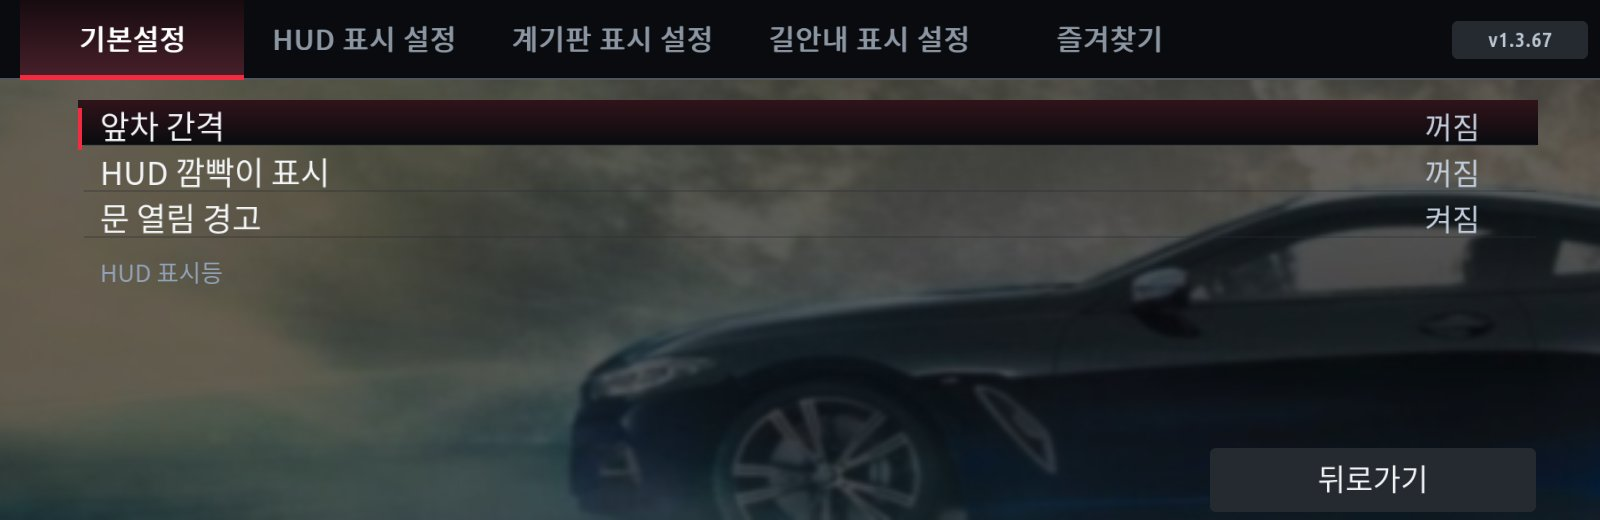
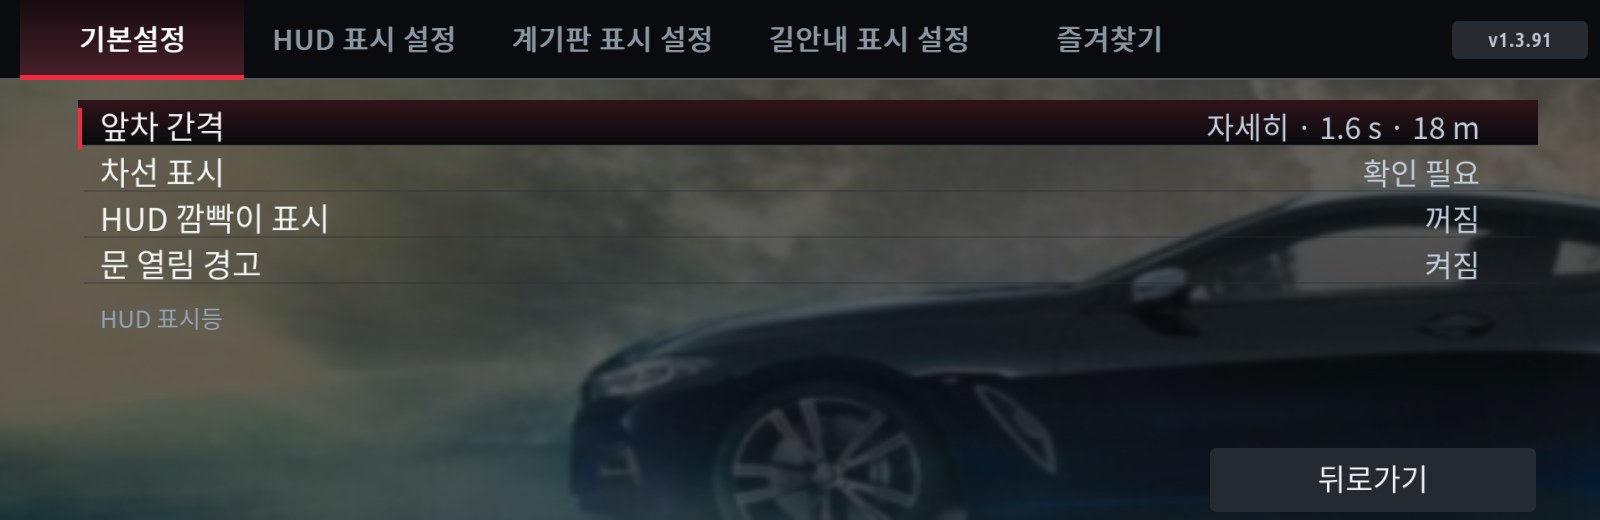
Guides for Cluster Redline 1.3.68-1.3.91 and Spotify (KO/EN)
- Cluster Redline guides: 1.3.91; the lead-car helper installed with it;
  Drive-mode display (5-0) replacing the Sport / All modes rows; HUD lamps with
  lane lines, the lead-car headway (sources, departure alert, distance
  correction) and scene recording (QR); arrow style 3D / drawn and neon;
  route list and icon texts; the English guide gets the 1.3.71-1.3.72 layouts.
- New pictures from the 1.3.91 package: HUD lamps, lane lines, scene
  recording, drive-mode display (HUD, cluster), HUD and cluster tabs, nav
  colours, the HUD lane picture with the headway badge, the arrow styles.
- READMEs and install guides: 1.3.91, layout counts (24 / 20), Spotify
  (Korean edition) and redline-lead in the tables.

Claude-Session: https://claude.ai/code/session_01NxZr4X5HwbmzhagkmmYuBa

diff --git a/docs/CLUSTER-REDLINE.md b/docs/CLUSTER-REDLINE.md
@@ -1,9 +1,9 @@
-# Cluster Redline 1.3.67 user guide
+# Cluster Redline 1.3.91 user guide
 
 [한국어](CLUSTER-REDLINE.ko.md) · [Installation](INSTALL.md) · [The apps](../README.md) · [Changelog](../CHANGELOG.md)
 
 Cluster Redline draws rpm, shift alerts, the gear and auxiliary information on the BMW instrument cluster and the HUD.
-For each drive mode you choose the Redline screen or the stock one, and on the HUD it adds navigation, vehicle alerts, turn signals, the door-open warning and more.
+For each drive mode you choose the Redline screen, the stock one or BC mode, and on the HUD it adds navigation, vehicle alerts, the lead-car headway, lane lines, turn signals, the door-open warning and more.
 
 | Cluster (gauges) | Cluster (red shift alert) |
 |---|---|
@@ -13,7 +13,7 @@ For each drive mode you choose the Redline screen or the stock one, and on the H
 |---|---|
 | ![HUD circle](../screenshots/cluster_redline/manual/face-hud-circle-en.jpg) | ![HUD bar](../screenshots/cluster_redline/manual/face-hud-bar-en.jpg) |
 
-> The pictures in this guide are drawn by the actual 1.3.67 package's drawing code, with example data. Colours and positions on the car can differ a little.
+> The pictures in this guide are drawn by the actual 1.3.91 package's drawing code, with example data. Colours and positions on the car can differ a little.
 
 ## Contents
 
@@ -34,8 +34,10 @@ For each drive mode you choose the Redline screen or the stock one, and on the H
 
 1. In MGU Store → **Settings → Add source**, add repository **`jaimeen77-cmyk/apps`**, branch **`main`**, and press **Check now**.
 2. **Install** **Cluster Redline (English)** (the Korean edition is 계기판 레드라인 (한국어)).
-3. The cluster renderer **`cluster-render` 0.4.0 or later** is installed with it. It comes from the Store's default source (`robertnisipeanu/idrive-apps`), which must be registered.
-4. Open the app: **v1.3.67** at the top right means it is done.
+3. Installed with it:
+   - The cluster renderer **`cluster-render` 0.4.0 or later**. It comes from the Store's default source (`robertnisipeanu/idrive-apps`), which must be registered.
+   - **Cluster Redline lead-car helper (`redline-lead`) 0.4.0**, from this source. It **only reads** the front camera's and the radar's car ahead, the lane lines and the road users, as root (some cars keep them from apps). The lead-car headway, lane lines and scene recording use it.
+4. Open the app: **v1.3.91** at the top right means it is done.
 
 It installs on iDrive 7 and iDrive 8. See [Installation](INSTALL.md) for details.
 
@@ -44,8 +46,8 @@ It installs on iDrive 7 and iDrive 8. See [Installation](INSTALL.md) for details
 ## 2. First setup (5 minutes)
 
 1. **Basic settings → Vehicle preset**: choose the vehicle type (Petrol / Diesel / eDrive / M). The default shift-alert rpm follows it.
-2. **Cluster display setting → Sport mode RPM display** should be **Redline app** (the default). To see it in Comfort and Eco too, set **All modes RPM display** to Redline app as well.
-3. For the HUD, choose Redline app the same way in **HUD display setting** (the HUD's default is the stock display).
+2. **Cluster display setting → Drive-mode display**: Sport should be **Redline app** (the default). To see it in Comfort and Eco too, set those rows to Redline app as well.
+3. For the HUD, choose Redline app the same way in **HUD display setting → Drive-mode display** (the HUD's default is the stock display in every mode).
 4. In the car's **cluster settings**, set the **centre display area** to **map view** or **off**. Other displays there (driving assistance and so on) can cover the Redline screen.
 5. **Basic settings → App operation → Start app (auto start)**. From the next start it comes on by itself.
 
@@ -55,10 +57,10 @@ Now switch the drive mode to Sport and the Redline screen shows on the cluster.
 
 | Tab | What it is for |
 |---|---|
-| **Basic settings** | Start and stop the app, settings per driver, HUD lamps (lead-car headway, turn signals, door-open warning), vehicle preset |
-| **HUD display setting** | What the HUD shows and when, design, position / size, BC mode screens |
-| **Cluster display setting** | What the cluster shows and when, design (including Animation), position / size, BC mode screens |
-| **Nav display setting** | HUD navigation, colours, yielding the cluster, position / size, vehicle alerts |
+| **Basic settings** | Start and stop the app, settings per driver, HUD lamps (lead-car headway, lane lines, turn signals, door-open warning), vehicle preset |
+| **HUD display setting** | What the HUD shows in each drive mode, design, position / size, BC mode screens |
+| **Cluster display setting** | What the cluster shows in each drive mode, design (including Animation), position / size, BC mode screens |
+| **Nav display setting** | HUD navigation, colours and arrow style, yielding the cluster, position / size, vehicle alerts |
 | **Favorites** | Save the current settings in five slots and load them back |
 
 - **Using it**: tap the screen, or turn the iDrive controller to a row and press. Change tabs with the tabs on top or the button bar.
@@ -75,7 +77,7 @@ Now switch the drive mode to Sport and the Redline screen shows on the cluster.
 |---|---|---|
 | App operation | **Start app (auto start)** / **Stop app (no auto start)** | Starts or stops the display now, and sets whether it starts by itself next time. The settings screen works either way. |
 | Settings per driver | Off (default) / On | Keeps settings per driver profile of the car. See [4-3](#4-3-settings-per-driver-and-greetings). |
-| HUD lamps | opens a screen | Lead-car headway, turn signals on the HUD, door-open warning. See [4-1](#4-1-hud-lamps). |
+| HUD lamps | opens a screen | Lead-car headway, lane lines, turn signals on the HUD, door-open warning. See [4-1](#4-1-hud-lamps). |
 | Vehicle preset | opens a screen | Vehicle type, units, shift-alert rpm. See [4-2](#4-2-vehicle-preset). |
 
 ### 4-1. HUD lamps
@@ -84,15 +86,46 @@ Now switch the drive mode to Sport and the Redline screen shows on the cluster.
 
 | Item | What it does |
 |---|---|
-| **Lead-car headway** | Off (default) / Simple (time gap + distance) / Detailed (+ closing speed). Reads the distance the radar (ACC) measured and shows it small between the HUD's turn arrows. Time gap under 1.0 s red, 1.0–1.5 s orange, 1.5 s and more teal. **Distance correction** (1.3.91): the car measures from its sensor behind the windscreen, so this is taken off the distance shown to read from the bumper: 0 to −3 m in 0.5 m steps, −2 m by default (right behind a car: 0 m). The time gap uses the corrected distance too. The values received from the car, and whether the car offers the radar's service to the app, show at the bottom. |
+| **Lead-car headway** | Off (default) / Simple (time gap + distance) / Detailed (+ closing speed). The time gap to the car ahead, small between the HUD's turn arrows: under 1.0 s red, 1.0–1.5 s orange, 1.5 s and more teal. Below 12 km/h the distance takes the big place. The **lead car departure alert** and the **distance correction** are on this screen too. See [Lead-car headway](#lead-car-headway). |
+| **Lane lines** | Off (default) / On. The lines either side of your lane, and the car ahead, as the front camera sees them, drawn in perspective above the headway badge. See [Lane lines](#lane-lines). |
 | **Turn signals on HUD** | On / Off (default). When the indicators or the hazards flash, HUD arrows flash with the car's rhythm (about 0.64 s). Shape (arrow · `<<< >>>` · `< >`), colour (green, blue, orange) and position / size. Also over the stock HUD. The same screen has the **blind spot warning** (when a door mirror's warning lamp lights, a top view under that side's arrow; red with that indicator on). The blind spot warning uses frequent diagnostic reads, so it is off by default. |
 | **Door-open warning** | On (default) / Off. With a door, the bonnet or the boot open, a top view of the car shows in the middle of the HUD with the open parts in red. Also while parked; gone when all are shut. It has its own position / size. |
 
-**The Lead-car headway screen** (HUD lamps → Lead-car headway): Off / Simple / Detailed on top, and **Distance correction** at the top right (− / + buttons, −2.0 m by default). If it does not read 0 m right behind a car, adjust it with − / +. The lines at the bottom are the values received from the car (before the correction).
+While you adjust their position / size, the turn arrows, blind spot and door pictures show on the HUD as a preview; they go when you leave the screen.
+
+On the HUD (from the left: the default lane colour with teal 1.6 s, the lime green lane with orange 1.2 s, the car ahead moving off):
+
+![Lane lines and lead-car headway on the HUD](../screenshots/cluster_redline/manual/face-hud-lanes-en.jpg)
+
+#### Lead-car headway
 
 ![Lead-car headway · distance correction](../screenshots/cluster_redline/manual/t0-headway-en.jpg)
 
-While you adjust their position / size, the turn arrows, blind spot and door pictures show on the HUD as a preview; they go when you leave the screen.
+- Choose **Off / Simple / Detailed** on top. **Distance correction** at the top right (− / +, 0 to −3 m in 0.5 m steps, **−2.0 m** by default) is taken off the distance shown: the car measures from its sensor behind the windscreen, so without it a car right in front still reads about 2 m (1.3.91). The time gap and its colour use the corrected distance, which never goes under 0 m.
+- **Where the car ahead comes from**: the **lead-car helper** (`redline-lead`: the front camera's object list and the radar) first; without it, the radar (ACC) service the car offers to apps, the front camera's object list, then the Drive assist view. The lines at the bottom show whether each one arrives, and the values received (before the correction). When the car gives apps none of them, `this car does not give the app the car ahead` shows.
+- **Lead car departure alert** (no setting of its own; on with the headway badge): standing (under 1 km/h) for 2 s with a car within 15 m, when that car moves 3 m further than its nearest (or is lost having been within 10 m), **Moving off** shows in green for 3 s. Once per stop; not in P, nor once you move. With the lane lines on, the car ahead turns green with an arrow too.
+- **Position / size**: the badge's place and size. The lane lines move and scale with it.
+
+#### Lane lines
+
+![Lane lines](../screenshots/cluster_redline/manual/t0-lanelines-en.jpg)
+
+- **Off / On**, and **Lane colour**: **Default** (the dark road) or **Lime green** (the lane lit, brightest near the car).
+- The lines are drawn as the camera reports them: dashed, solid, double, road edge; white or yellow.
+- Within **15 cm** of a line that side turns amber; **over the line** red. With the turn signal on towards it, it is a lane change: teal, no warning.
+- A car ahead is drawn at its distance as the camera's class (car, truck, motorbike, bicycle, pedestrian), its headway colour glowing on the road under it; its distance and closing speed sit small at the top right. Your car at the bottom is an M3 seen from behind.
+- **The lead-car helper is required** (installed from the Store with the app). The lines at the bottom show the helper, events received, lines seen, both lines' distance, type and margin, and the lane width. Lines not seen for 1.2 s are hidden.
+
+#### Scene recording
+
+![Scene recording](../screenshots/cluster_redline/manual/t0-clips-en.jpg)
+
+**Scene recording** on the Lead-car headway screen (off by default) collects the scenes needed to set up the pedestrian / cyclist warning, the cut-in warning and the road users around, without SSH.
+
+- While it is on, the lead-car helper keeps the last 30 s of what the front camera measures (objects, the car followed, lane lines) with your speed and gear.
+- **20 s before and 10 s after** are saved by themselves for: a pedestrian or cyclist on your path within 30 m, a car beside you coming into your lane, the car ahead moving off. **Save now** keeps the scene now.
+- Clips are numbered in order (`001-1127-1010-보행자자전거.jsonl`, `002-…-끼어들기`, `003-…-직접저장`). At most 50 clips / 5 MB are kept, the oldest going first. **Delete all clips** deletes on a second press within 5 s.
+- **To your phone**: join the phone to the car's Wi-Fi (as for the GIF player's phone page) and scan the QR code: a page lists the clips with **모두 받기** (download all; the page is in Korean). It is read only, and there only while recording is on.
 
 ### 4-2. Vehicle preset
 
@@ -123,20 +156,34 @@ The shift alert is green from 50 % of the set rpm, yellow from 80 %, and flashes
 
 | Item | Choices | What it does |
 |---|---|---|
-| Sport mode RPM display | Redline app / Stock display (default) / BC mode | What the HUD shows in Sport, Sport+ and Sport Individual |
-| All modes RPM display | Redline app / Redline app · except Sport modes / Stock display (default) / BC mode | Every drive mode. **Redline app** includes Sport; **except Sport modes** leaves the Sport modes to the row above. |
+| Drive-mode display | opens a screen | What the HUD shows in Sport / Comfort / Eco / other modes. See [5-0](#5-0-drive-mode-display) |
 | Design | design → auxiliary information | See 5-1 |
 | Position / size | opens a screen | See 5-2 |
 | BC mode screens | opens a screen | See 5-3 |
 
-- **Only in Sport**: Sport = Redline app, All modes = Stock display.
-- **Stock only in Sport**: Sport = Stock display, All modes = Redline app · except Sport modes.
+### 5-0. Drive-mode display
+
+![Drive-mode display](../screenshots/cluster_redline/manual/t1-hud-modes-en.jpg)
+
+From 1.3.84 this screen replaces the two rows **Sport mode RPM display / All modes RPM display**. Your older settings carry over, and nothing changes until you touch it.
+
+| Group | Drive modes in it |
+|---|---|
+| Sport | Sport, Sport+, Sport Individual, PHEV Sport, Boost |
+| Comfort | Comfort, Comfort+, Comfort Individual, PHEV Hybrid, a mode not known yet |
+| Eco | Eco Pro, Eco Pro+, Eco Pro Individual, PHEV Hybrid Eco |
+| Other modes | Adaptive, PHEV Electric, Battery control, off-road and the rest. **As Comfort** by default |
+
+- Each group gets **Redline app / Stock display / BC mode**.
+- With Redline app, the **Screen** column on the right is **Common** (the Design and Position / size rows' screen) or **Set own**: set up like a BC page (design → auxiliary information → position / size) and used in that group only. The common screen is not changed.
+- BC mode keeps one set of BC page screens for every drive mode.
+- Examples: **only in Sport** = Sport Redline app, the rest Stock display. **Stock only in Sport** = Sport Stock display, the rest Redline app.
 
 ### 5-1. Design and auxiliary information
 
 ![HUD design](../screenshots/cluster_redline/manual/t1-hud-design-en.jpg)
 
-- The first two, **Jam top alert bar / Jam circle alert**, are this app's own designs; the rest are the Redline app layouts (16 on the HUD). Each tile says **Gauge support** or **Text only** at its top right.
+- The first two, **Jam top alert bar / Jam circle alert**, are this app's own designs; the rest are the Redline app layouts (18 on the HUD, 20 designs in all). Each tile says **Gauge support** or **Text only** at its top right.
 - After a design you choose the **auxiliary information**: **Gauges** (up to 2) / **Text** (up to 4) / **No auxiliary information**. They are placed in the order you press them, and saved only with **OK**.
 
 | Auxiliary information | What it is |
@@ -165,7 +212,7 @@ A value not received yet, or too old, shows as `--`. Missing values are never es
 
 ![HUD BC mode](../screenshots/cluster_redline/manual/t1-hud-bc-en.jpg)
 
-With **BC mode** chosen as the RPM display, the Redline screen follows the stock BC pages as you step them with the **BC button** on the left stalk.
+With **BC mode** chosen in Drive-mode display, the Redline screen follows the stock BC pages as you step them with the **BC button** on the left stalk.
 
 - At the top choose the **iDrive 7 / iDrive 8** page list.
 - For each page: **Set screen** (design → auxiliary information → position / size, kept per page) / **No change** / **This page now** (to put the count right when it is out of step).
@@ -180,14 +227,24 @@ With **BC mode** chosen as the RPM display, the Redline screen follows the stock
 
 The same menus as the HUD tab; the cluster and the HUD have **separate** outputs, designs, auxiliary information and positions.
 
-- Defaults: **Sport mode = Redline app**, All modes = Stock display.
+- Defaults: in Drive-mode display **Sport = Redline app**, the rest Stock display.
+
+![Cluster drive-mode display](../screenshots/cluster_redline/manual/t2-cluster-modes-en.jpg)
 - For the cluster, the car's **centre display area** must be **map view or off**.
 
 ### 6-1. Design
 
 ![Cluster design](../screenshots/cluster_redline/manual/t2-cluster-design-en.jpg)
 
-The cluster has **20 designs**: Jam top alert bar, Jam circle alert and 18 Redline app layouts (Standard, 80s digital dash, VFD glow, Vector arcade, Arc (F80 M3/M4), Ramp (G80 M3/M4), Dial (E60 M5), M shift lights, Data logger, Analog needle, G-force + RPM rings, Mode ribbon, Hexagon, Sport dial, Classic dial, Luxury arc, Tyres & trip, **Animation**).
+The cluster has **24 designs**: Jam top alert bar, Jam circle alert and 22 Redline app layouts (Standard, 80s digital dash, VFD glow, Vector arcade, Arc (F80 M3/M4), Ramp (G80 M3/M4), Dial (E60 M5), M shift lights, Data logger, Analog needle, G-force + RPM rings, Mode ribbon, Hexagon, Sport dial, Classic dial, Luxury arc, Tyres & trip, Calm clock, Retro VU meters, Navigation focus, G-G trail, **Animation**). Animation is always last.
+
+**Calm clock** (1.3.71, cluster and HUD): the time big and thin with its date, up to four readouts in quiet figures under it (the auxiliary items chosen), the gear, speed and drive mode small at the top. The rpm stays out of sight until 1,500 rpm before the shift point, then a thin bar fills above the clock. **Cool / warm** colours on the Auxiliary information screen. The clock and the speed are Position / size parts of their own.
+
+**Retro VU meters** (1.3.72, cluster): two lit cream meters as on a hi-fi amplifier: the rpm and the first readout chosen (boost, torque…; without one the rpm alone, centred). In the red zone the needle's tip turns red and the PEAK lamp lights. Drive mode, gear and clock under them.
+
+**Navigation focus** (1.3.72, cluster): the turn big in the middle, its distance and description (highway exits and entries named), the lanes and the turn after it; a small rpm ring on the left, gear and speed on the right. Without guidance the speed takes the middle. It uses the HUD's guidance and follows the Navigation display setting.
+
+**G-G trail** (1.3.72, cluster and HUD): the sideways and forward G of the last 2.5 s as a fading tail over rings at 0.4 / 0.8 / 1.2 G, this drive's highest left, right and braking G, and the G now; an rpm ring around it, gear and speed on the left.
 
 | Four text values | Two gauges |
 |---|---|
@@ -240,6 +297,7 @@ The HUD's Animation design shows the same GIFs (black is see-through).
 - Recommended size **320 × 180**. Larger GIFs (up to 640 × 360, 6 MB) are scaled down, keeping their shape, when fetched; more than 30 frames are thinned to 30 (the duration is kept).
 - **Smaller GIFs run faster**: 160 × 90 at about 10–20 frames a second, 320 × 180 at about 2–6 (depending on the car).
 - Scene changes fade over 0.4 s.
+- The GIF is always drawn on its own fast layer (from 1.3.66; the old Fast GIF layer switch is gone).
 - Once fetched, the GIF player may be off. After changing the GIFs in the GIF player, or choosing others, press **Fetch** again.
 - To go back to the animated car, set all five rows to none and press **Fetch**.
 
@@ -273,7 +331,7 @@ As on the HUD, plus **Waze map** on the cluster (Redline steps aside for Waze or
 | Item | What it does |
 |---|---|
 | Navigation display | When the HUD shows the app's turn guidance (direction, distance, road name, lanes) |
-| Navigation colour | Arrow colour and text colour |
+| Navigation colour | Arrow colour and text colour, arrow style (3D / drawn arrows) |
 | Cluster · yield to navigation | Whether the cluster's RPM screen steps aside during guidance |
 | Position / size | Direction, text, lane guidance, next turn and vehicle alerts |
 
@@ -285,13 +343,19 @@ As on the HUD, plus **Waze map** on the cluster (Redline steps aside for Waze or
 
 - **All drive modes / Except Sport / Stock display**: the stock display turns the app's guidance off.
 - **Next turn on HUD**: On (default) shows the turn after the next one small under the arrow, e.g. `Then ↰ 120 m`, when it follows within 250 m.
-- **Received turns**: the last 10 turns the navigation (BMW, CarPlay, Android Auto) sent and, from 1.3.67, the route's turn list. Use it to see why the next turn shows or not.
+- **Received turns**: the last 10 turns the navigation (BMW, CarPlay, Android Auto) sent, and the route's turn list (up to 10 turns from 1.3.75). With only one turn in the list, `only one turn: no next turn` shows (the navigation sends just the next turn). Use it to see why the next turn shows or not.
+- Exit / IC and road numbers sent as icons now show in the turn's description too (1.3.75).
 
 ### 7-2. Navigation colour
 
 ![Navigation colour](../screenshots/cluster_redline/manual/t3-nav-color-en.jpg)
 
-Arrow colour (turn arrow, recommended lanes) and text colour (distance, road name): orange, green, blue or white, with a preview below. Default: blue arrow, white text.
+- **Arrow colour** (turn arrow, recommended lanes) and **text colour** (distance, road name): orange, green, blue, white or **Neon**. Default: blue arrow, white text.
+- **Arrow style**: **3D** (the default, glowing icons) / **Drawn arrows** (the line arrows up to 1.3.80). It applies to the turn box, the next-turn arrow, the lanes and the Navigation focus layout. Forks and branches stay drawn either way.
+- With 3D, **Neon** uses its own neon yellow-green icons (grey roads, orange arrival flags, its own highway exits) and lights the lane to take in neon. The other colours tint the blue icons.
+- The preview below shows the choice.
+
+![Arrow style: 3D blue · 3D neon · drawn arrows](../screenshots/cluster_redline/manual/face-hud-nav-styles-en.jpg)
 
 ### 7-3. Cluster · yield to navigation
 
@@ -330,7 +394,7 @@ Save the current settings (design, auxiliary information, position / size, navig
 
 - **Update**: in MGU Store, Check now → **Installed → Cluster Redline → Update**, then check the version at the top right. Settings are kept.
 - **Stop for now**: Basic settings → App operation → **Stop app (no auto start)**.
-- **Stock in one mode only**: set that mode to **Stock display** in the HUD / Cluster display setting.
+- **Stock in one mode only**: set that mode to **Stock display** in HUD / Cluster display setting → Drive-mode display.
 - **Remove**: MGU Store → Installed → Cluster Redline → remove.
 
 ## Troubleshooting
@@ -338,14 +402,17 @@ Save the current settings (design, auxiliary information, position / size, navig
 | Symptom | Check |
 |---|---|
 | The app is not in the Store list | Source `jaimeen77-cmyk/apps`, branch `main`, Check now, internet |
-| No RPM screen on the cluster | App running, the current drive mode's RPM display set to Redline app, centre display area map view / off, `cluster-render` 0.4.0 or later |
+| No RPM screen on the cluster | App running, the current mode set to Redline app in Drive-mode display, centre display area map view / off, `cluster-render` 0.4.0 or later |
 | Updated but nothing changed | The version at the top right; that the other language edition is not running |
 | Positions not where expected | Position / size → Save / load → Reset to defaults, then adjust again |
 | Outside temperature or auxiliary information `--` | The reason in the orange status line (signal not installed, no value…). Not installed: reinstall from the Store |
 | No GIF in the Animation layout | The GIF player's state on the Animation screen, that a driving GIF is chosen, that **Fetch** was pressed |
 | The animation looks choppy | Use a smaller GIF (160 × 90 for example) and fetch again |
 | The cluster does not yield during Waze guidance | The yield setting and the status line (HUD O/X). Without guidance on the HUD it cannot yield |
-| No lead-car headway | The values received and the radar service state at the bottom of HUD lamps → Lead-car headway |
+| No lead-car headway | The lines at the bottom of HUD lamps → Lead-car headway: the lead-car helper, camera and radar received. Helper `not installed`: install Cluster Redline again from the Store (the helper comes with it) |
+| Not 0 m right behind a car | Adjust the distance correction (−2.0 m by default) with − / + on the Lead-car headway screen |
+| No lane lines | The lines at the bottom of the Lane lines screen: helper, received, lines seen. On roads with faint or no markings they are hidden |
+| The scene recording QR does not open | That the phone is on the car's Wi-Fi and recording is on |
 
 When you ask, send the app version, a photo of the settings screen and of the status line.
 Older details are in the [Changelog](../CHANGELOG.md).

diff --git a/docs/INSTALL.md b/docs/INSTALL.md
@@ -17,8 +17,8 @@ In MGU Store open **Settings → Add source** and add the sources below. The bra
 
 | Source | Needed | What it offers |
 |---|---|---|
-| **`jaimeen77-cmyk/apps`** | Yes | This repository's apps: Cluster Redline, MGU Monitor, iDrive Circuit, Seats Easy Access, 8게임즈 (Parked Games), GIF 플레이어 (GIF player) |
-| **`jaimeen77-cmyk/appsKOR`** | For 8게임즈 and the GIF player | The GPU renderer (`idrive7-renderd`), the iDrive controller gate (`mgu-inputgate`), 15 Korean apps |
+| **`jaimeen77-cmyk/apps`** | Yes | This repository's apps: Cluster Redline, MGU Monitor, iDrive Circuit, Seats Easy Access, 8게임즈 (Parked Games), GIF 플레이어 (GIF player), 스포티파이 (Spotify, Korean edition), and the tools `redline-lead` (Cluster Redline lead-car helper), `mgu-gif-net`, `mgu-monitor-names` |
+| **`jaimeen77-cmyk/appsKOR`** | For 8게임즈, the GIF player and Spotify | The GPU renderer (`idrive7-renderd`), the iDrive controller gate (`mgu-inputgate`), 15 Korean apps |
 | The Store's default source (`robertnisipeanu/idrive-apps`) | For Cluster Redline | The cluster renderer (`cluster-render`), `mgu-deploy` |
 | `IterioDev/car-apps` | For Seats Easy Access | Comfort (`iteriodev-comfort`) |
 
@@ -31,14 +31,15 @@ If no registered source offers the tool, the Store blocks the install and says w
 
 | Store listing | Version | iDrive 7 | iDrive 8 | Tools installed with it |
 |---|---|:-:|:-:|---|
-| Cluster Redline (English) / 계기판 레드라인 (한국어) | 1.3.67 | ✅ | ✅ | `cluster-render` 0.4.0+, `mgu-deploy` 0.7.17+ |
+| Cluster Redline (English) / 계기판 레드라인 (한국어) | 1.3.91 | ✅ | ✅ | `cluster-render` 0.4.0+, `redline-lead` 0.4.0 (this source, the lead-car and lane helper), `mgu-deploy` 0.7.17+ |
 | MGU Monitor (English) / MGU 모니터 (한국어) | 1.1.10 | ✅ | ✅ | `mgu-monitor-names` 0.1.0 (this source), `mgu-deploy` |
 | iDrive Circuit (English) / 아이드라이브 회로 (한국어) | 1.0.5 | ✅ | ✅ | `mgu-deploy` |
 | Seats Easy Access (English) / 시트 Easy Access (한국어) | 0.7.10 | ✅ | ✅ | `iteriodev-comfort` 0.6.1+, `mgu-deploy` 0.7.11+ |
 | 8게임즈 (Korean only) | 0.2.4 | ✅ | — | `idrive7-renderd`, `mgu-inputgate`, `mgu-deploy` |
 | GIF 플레이어 (한국어) (Korean only) | 0.4.8 | ✅ | — | `idrive7-renderd`, `mgu-inputgate`, `mgu-gif-net` 0.1.0 (this source), `mgu-deploy` |
+| Spotify (한국어) (Korean only) | 2.0.0 | ✅ | — | `idrive7-renderd` 2.1.7+, `mgu-inputgate` 1.0.0+, `mgu-deploy` 0.7.17+ |
 
-- 8게임즈 and the GIF player are **iDrive 7 only**, like the original apps. On iDrive 8 the Store refuses them.
+- 8게임즈, the GIF player and Spotify are **iDrive 7 only**, like the original apps. On iDrive 8 the Store refuses them.
 - iDrive 8 installs are supported, but not every app has been checked on an iDrive 8 car yet.
 - The English and Korean editions are separate apps. Do not use both editions of the same app; if both are installed, turn off or remove the one you do not use.
 - If the Store asks for a restart after the install, do it (some tools take effect from the next HMI start).
@@ -54,6 +55,7 @@ Open an installed app from the car's app list. What to do first is in each app's
 | iDrive Circuit | [Guide](../apps/idrive_circuit/README.md) |
 | 8게임즈 | [Korean guide](../apps/parked_games/README.ko.md) |
 | GIF player | [Guide](../apps/gif_home/README.md) — upload GIFs from your phone |
+| Spotify | [Korean guide](../apps/spotify/README.ko.md) — connect your account by QR, needs the internet |
 | Seats Easy Access | [Guide](../apps/seats_easy_access/README.md) |
 
 ### Placing a widget on the home screen (MGU Monitor, GIF player)
@@ -82,7 +84,7 @@ MGU Store → **Installed** → the app → remove. The tools (renderers and so 
 |---|---|
 | The app is not in the list | Source spelling `jaimeen77-cmyk/apps`, branch `main`, Check now, internet connection |
 | The install is blocked by a missing tool | Whether a source offering that tool (table in 2.) is registered |
-| "is for iDrive 7" on iDrive 8 | 8게임즈 and the GIF player are iDrive 7 only |
+| "is for iDrive 7" on iDrive 8 | 8게임즈, the GIF player and Spotify are iDrive 7 only |
 | Updated but nothing changed | The version at the top right; that the other language edition of the app is not running |
 | The GIF player or 8게임즈 is slow and touch does nothing | Whether the GPU renderer (`idrive7-renderd`) is installed and the appsKOR source registered |
 | Cluster Redline does not show on the cluster | [Troubleshooting in the Redline guide](CLUSTER-REDLINE.md#troubleshooting) |

diff --git a/README.md b/README.md
@@ -15,11 +15,11 @@ Apps for BMW iDrive 7 and 8 head units, installed from **MGU Store**. Every app 
 
 ## The apps
 
-### Cluster Redline 1.3.67 · iDrive 7·8 · English/Korean
+### Cluster Redline 1.3.91 · iDrive 7·8 · English/Korean
 
 ![Cluster Redline](screenshots/cluster_redline/manual/face-cluster-gauges-boost-torque-en.jpg)
 
-Draws rpm, shift alerts, the gear and auxiliary information (boost, torque, oil temperature…) on the instrument cluster and the HUD. 20 designs on the cluster and 18 on the HUD, an Animation layout (an animated car or your own GIFs), following the BC button, HUD navigation and vehicle alerts, settings per driver and favourites.
+Draws rpm, shift alerts, the gear and auxiliary information (boost, torque, oil temperature…) on the instrument cluster and the HUD. 24 designs on the cluster and 20 on the HUD (Calm clock, Retro VU meters, Navigation focus and G-G trail among them), an Animation layout (the owner's M3 or your own GIFs), a screen per drive-mode group, following the BC button, HUD navigation with 3D or neon icons, vehicle alerts, the lead-car headway with a departure alert, lane lines, scene recording, settings per driver and favourites.
 → **[User guide](docs/CLUSTER-REDLINE.md)**
 
 ### MGU Monitor 1.1.10 · iDrive 7·8 · English/Korean

diff --git a/apps/cluster_redline/README.ko.md b/apps/cluster_redline/README.ko.md
@@ -1,8 +1,8 @@
-# 계기판 레드라인 1.3.67
+# 계기판 레드라인 1.3.91
 
 [English](README.md)
 
-계기판(클러스터)과 HUD에 회전수·변속 알림·기어·부가정보를 그리는 iDrive 7·8 앱입니다. 애니메이션 레이아웃(자동차 그림 또는 GIF 플레이어에서 가져온 내 GIF), BC 버튼 따라가기, HUD 길안내·차량 알림, 운전자별 설정과 즐겨찾기를 지원합니다.
+계기판(클러스터)과 HUD에 회전수·변속 알림·기어·부가정보를 그리는 iDrive 7·8 앱입니다. 애니메이션 레이아웃(자동차 그림 또는 GIF 플레이어에서 가져온 내 GIF), 주행 모드 묶음별 화면, BC 버튼 따라가기, HUD 길안내(3D·형광 아이콘)·차량 알림, 앞차 간격·앞차 출발 알림·차선 표시·상황 기록(앞차 도우미 `redline-lead`), 운전자별 설정과 즐겨찾기를 지원합니다.
 
 ![계기판](../../screenshots/cluster_redline/manual/face-cluster-gauges-boost-torque-ko.jpg)
 

diff --git a/apps/cluster_redline/README.md b/apps/cluster_redline/README.md
@@ -1,8 +1,8 @@
-# Cluster Redline 1.3.67
+# Cluster Redline 1.3.91
 
 [한국어](README.ko.md)
 
-An iDrive 7 and 8 app that draws rpm, shift alerts, the gear and auxiliary information on the instrument cluster and the HUD. Animation layout (an animated car, or your own GIFs from the GIF player), following the BC button, HUD navigation and vehicle alerts, settings per driver and favourites.
+An iDrive 7 and 8 app that draws rpm, shift alerts, the gear and auxiliary information on the instrument cluster and the HUD. Animation layout (an animated car, or your own GIFs from the GIF player), a screen per drive-mode group, following the BC button, HUD navigation (3D or neon icons) and vehicle alerts, the lead-car headway, departure alert, lane lines and scene recording (with the lead-car helper `redline-lead`), settings per driver and favourites.
 
 ![Cluster](../../screenshots/cluster_redline/manual/face-cluster-gauges-boost-torque-en.jpg)
 
